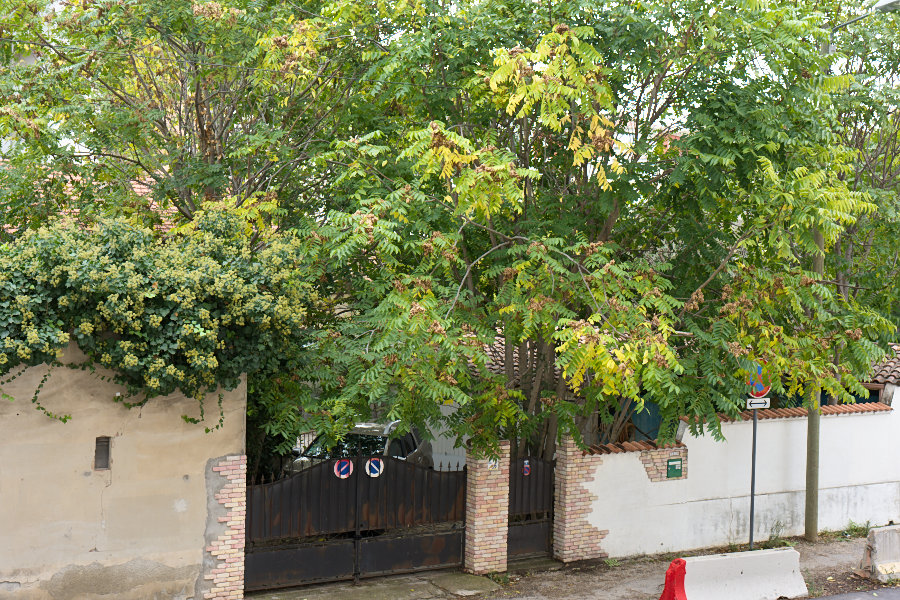
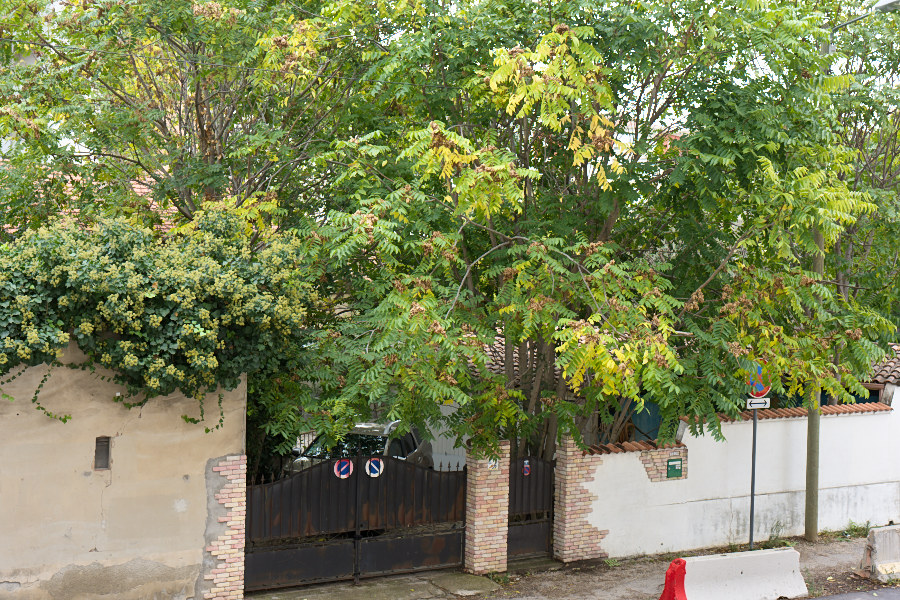
Write every file by staging and renaming; publish benchmark results
- Outputs, recipes and extracted JPEGs are written to a new file and
  renamed into place, so no existing file is ever opened for writing.
- Compare not-yet-existing destinations through their resolved directory.
- Benchmark: time full-resolution export including encoding; make the
  script executable.
- Fill in README and docs/benchmark.md with measured results.

diff --git a/src/output.rs b/src/output.rs
@@ -45,6 +45,29 @@ fn to_rgb16_be(image: &Image) -> Vec<u8> {
     out
 }
 
+/// Puts `bytes` at `path` by writing a new file beside it and renaming it
+/// into place. Nothing that already exists is ever opened for writing: an
+/// interrupted write leaves the old file intact, and a destination that is a
+/// symlink or hard link to some other file (the RAW, say) is replaced as a
+/// name while that other file's contents stay untouched.
+pub fn replace(path: &Path, bytes: &[u8]) -> std::io::Result<()> {
+    use std::io::Write;
+    let mut name = path.as_os_str().to_owned();
+    name.push(format!(".{}.tmp", std::process::id()));
+    let staging = std::path::PathBuf::from(name);
+    // `create_new` refuses an existing name without following it.
+    let written = std::fs::OpenOptions::new()
+        .write(true)
+        .create_new(true)
+        .open(&staging)
+        .and_then(|mut file| file.write_all(bytes))
+        .and_then(|()| std::fs::rename(&staging, path));
+    if written.is_err() {
+        let _ = std::fs::remove_file(&staging);
+    }
+    written
+}
+
 /// Writes `image` (sRGB-encoded, 0..1) to `path`. The extension selects the
 /// format: `.jpg`/`.jpeg` (8-bit, `quality` 1..100) or `.png` (16-bit, lossless).
 pub fn write(path: &Path, image: &Image, quality: u8) -> Result<()> {
@@ -57,18 +80,20 @@ pub fn write(path: &Path, image: &Image, quality: u8) -> Result<()> {
             if w > u16::MAX as usize || h > u16::MAX as usize {
                 return Err(Error::Params("image is too large for JPEG; use --size or PNG".into()));
             }
-            let mut encoder = jpeg_encoder::Encoder::new_file(path, quality.clamp(1, 100)).map_err(|e| failed(&e))?;
+            let mut bytes = Vec::new();
+            let mut encoder = jpeg_encoder::Encoder::new(&mut bytes, quality.clamp(1, 100));
             // Always full chroma resolution. Subsampled (4:2:0) files from this
             // encoder decode correctly in libjpeg and ImageIO, but an image
             // viewer used by AI assistants showed them scrambled, and a preview
             // the assistant cannot see correctly defeats the purpose.
             encoder.set_sampling_factor(jpeg_encoder::SamplingFactor::F_1_1);
             encoder.set_optimized_huffman_tables(true);
-            encoder.encode(&to_rgb8(image), w as u16, h as u16, jpeg_encoder::ColorType::Rgb).map_err(|e| failed(&e))
+            encoder
+                .encode(&to_rgb8(image), w as u16, h as u16, jpeg_encoder::ColorType::Rgb)
+                .map_err(|e| failed(&e))?;
+            replace(path, &bytes).map_err(|e| failed(&e))
         }
         "png" => {
-            // Encoded in memory and written in one call, so a failed write
-            // (a full disk) is reported instead of lost in a buffer's drop.
             let mut bytes = Vec::new();
             let mut encoder = png::Encoder::new(&mut bytes, w as u32, h as u32);
             encoder.set_color(png::ColorType::Rgb);
@@ -78,7 +103,7 @@ pub fn write(path: &Path, image: &Image, quality: u8) -> Result<()> {
             let mut writer = encoder.write_header().map_err(|e| failed(&e))?;
             writer.write_image_data(&to_rgb16_be(image)).map_err(|e| failed(&e))?;
             writer.finish().map_err(|e| failed(&e))?;
-            std::fs::write(path, bytes).map_err(|e| failed(&e))
+            replace(path, &bytes).map_err(|e| failed(&e))
         }
         _ => Err(Error::Params(format!("unsupported output format '.{extension}'; use .jpg or .png"))),
     }

diff --git a/src/main.rs b/src/main.rs
@@ -1,4 +1,3 @@
-use std::io::Write;
 use std::path::{Path, PathBuf};
 use std::process::ExitCode;
 use std::time::Instant;
@@ -126,22 +125,7 @@ fn save_recipe(path: &Path, params: &Params) -> Result<()> {
     let mut value = params.to_sparse();
     value["rawsmith"] = json!(env!("CARGO_PKG_VERSION"));
     let text = serde_json::to_string_pretty(&value).expect("recipes always serialise");
-    // Write-then-rename so an interrupted save never leaves half a recipe.
-    // The staging file must be new: `create_new` refuses an existing name
-    // without following it, so a link planted there cannot redirect the write.
-    let mut name = path.as_os_str().to_owned();
-    name.push(format!(".{}.tmp", std::process::id()));
-    let temporary = PathBuf::from(name);
-    let written = std::fs::OpenOptions::new()
-        .write(true)
-        .create_new(true)
-        .open(&temporary)
-        .and_then(|mut file| file.write_all(text.as_bytes()).and_then(|()| file.write_all(b"\n")))
-        .and_then(|()| std::fs::rename(&temporary, path));
-    if written.is_err() {
-        let _ = std::fs::remove_file(&temporary);
-    }
-    Ok(written?)
+    Ok(output::replace(path, (text + "\n").as_bytes())?)
 }
 
 fn read_raw(path: &Path) -> Result<arw::RawImage> {
@@ -164,6 +148,8 @@ fn parse_region(text: &str) -> Result<[f32; 4]> {
 
 /// Refuses to write `destination` when it is the RAW file itself, by any
 /// name: the same path, a symlink to it, or a hard link sharing its data.
+/// Where hard links cannot be recognised, `output::replace` still keeps the
+/// RAW's contents intact: it replaces names, it never writes into files.
 fn protect_raw(raw: &Path, destination: &Path, what: &str) -> Result<()> {
     if same_file(raw, destination) {
         return Err(Error::Params(format!(
@@ -177,7 +163,13 @@ fn protect_raw(raw: &Path, destination: &Path, what: &str) -> Result<()> {
 /// Whether two paths name one file: the same path (even if nothing exists
 /// there yet), a symlink to it, or a hard link sharing its data.
 fn same_file(a: &Path, b: &Path) -> bool {
-    let resolved = |p: &Path| std::fs::canonicalize(p).or_else(|_| std::path::absolute(p)).ok();
+    // A file that does not exist yet is named by its directory, resolved.
+    let resolved = |p: &Path| {
+        std::fs::canonicalize(p).ok().or_else(|| {
+            let full = std::path::absolute(p).ok()?;
+            Some(std::fs::canonicalize(full.parent()?).ok()?.join(full.file_name()?))
+        })
+    };
     if resolved(a).is_some_and(|x| Some(x) == resolved(b)) {
         return true;
     }
@@ -294,7 +286,7 @@ fn run(cli: Cli) -> Result<Value> {
             let raw = arw::decode(&file)?;
             let (offset, len) =
                 raw.embedded_jpeg.ok_or_else(|| Error::Unsupported("this file has no embedded JPEG".into()))?;
-            std::fs::write(&output, &file[offset..offset + len])?;
+            output::replace(&output, &file[offset..offset + len])?;
             Ok(json!({"output": output, "bytes": len}))
         }
     }

diff --git a/tests/cli.rs b/tests/cli.rs
@@ -230,6 +230,7 @@ fn mistakes_produce_json_errors_and_change_nothing() {
     assert_eq!(std::fs::read(&f.raw).unwrap(), before, "the RAW was modified");
 
     // A recipe and a picture cannot share a name, in either direction.
+    std::fs::create_dir_all(f.path("sub")).unwrap();
     let shared = f.path("shared.jpg");
     for args in [
         vec!["edit", s(&f.raw), "--reset", "--recipe", s(&shared), "-o", s(&shared)],
@@ -239,6 +240,10 @@ fn mistakes_produce_json_errors_and_change_nothing() {
         let (success, v) = run(&args);
         assert!(!success && v["error"]["kind"] == "params", "{args:?} -> {v}");
     }
+    assert!(!shared.exists());
+    let (success, v) =
+        run(&["edit", s(&f.raw), "--reset", "--recipe", s(&f.dir.join("sub/../shared.jpg")), "-o", s(&shared)]);
+    assert!(!success && v["error"]["kind"] == "params", "{v}");
     assert!(!shared.exists());
 
     // Saving a recipe leaves no staging file behind.

diff --git a/bench/photos.py b/bench/photos.py
@@ -166,9 +166,11 @@ def cmd_render(args):
             entry["seconds"]["system"] = round(time.time() - started, 3)
             entry["variants"]["camera"] = entry["variants"]["system"] = None
             os.remove(embedded)
-        # Full-resolution render time, the number users feel on export.
+        # Full-resolution export time, the number users feel: render, encode, write.
         save(scratch, {})
-        _, entry["seconds"]["full_resolution"] = rawsmith(exe, "render", raw, "--recipe", scratch)
+        export = os.path.join(work, "export.jpg")
+        _, entry["seconds"]["full_resolution"] = rawsmith(exe, "render", raw, "--recipe", scratch, "-o", export)
+        os.remove(export)
         entry["seconds"]["full_resolution"] = round(entry["seconds"]["full_resolution"], 3)
         manifest["photos"][photo] = entry
         print(f"{photo}: {', '.join(sorted(entry['variants']))}", flush=True)

diff --git a/docs/benchmark.md b/docs/benchmark.md
@@ -9,7 +9,7 @@ none of them substitutes for the others.
 | `examples/quality.rs` | Are the algorithms correct and better than naive baselines, against known answers? | No (synthetic) |
 | `bench/photos.py` | Do real photos come out better than the camera's own rendering and the system RAW converter, and does AI editing help? | Your own RAW files |
 
-Numbers below are from version RAWSMITH_VERSION on an Intel i7-10700
+Numbers below are from version 0.1.0 on an Intel i7-10700
 (8 cores / 16 threads), macOS, release build.
 
 ## 1. Decoder cross-check
@@ -28,7 +28,19 @@ level and as-shot white balance.
 Synthetic scenes with a known correct answer. Reproducible by anyone;
 `--check` turns the floors into a regression test that CI runs.
 
-QUALITY_TABLE
+| Measure | rawsmith | Baseline | Floor checked in CI |
+|---|---|---|---|
+| Demosaic PSNR, mean of four scenes | 39.4 dB | bilinear 33.2 dB, Malvar–He–Cutler 37.1 dB | +4 dB over bilinear, +1 dB over MHC |
+| Demosaic false colour, zone plate (lower is better) | 0.025 | bilinear 0.084, MHC 0.030 | — |
+| Highlight reconstruction, mean relative error | 1.1% | 10.3% when clipping | below 3% |
+| Colour accuracy, 24 patches (ΔE, Oklab × 100) | mean 0.014, max 0.036 | — | mean below 0.5, max below 1 |
+| Chroma noise removed / edge contrast kept | 74% / 108% | — | at least 25% / 95% |
+| Sharpening overshoot, share of the edge step | 1.7% | — | below 2% |
+| Tone curve monotone | yes | — | yes |
+
+Per scene, demosaic PSNR in dB (bilinear / MHC / rawsmith): zone plate
+19.6 / 25.7 / 28.6, coloured lines 26.8 / 26.1 / 27.6, soft shapes
+41.8 / 45.1 / 48.2, fractal texture 44.8 / 51.6 / 53.1.
 
 - **Demosaic**: PSNR of the reconstructed image against the original, over
   four scenes (zone plate up to 0.8 of the sensor's resolution limit, thin
@@ -88,7 +100,39 @@ What the comparisons mean:
 
 ### Results
 
-PHOTO_TABLE
+15 photos (the private set described under Limits), judge: Claude through
+`claude -p`, one judge, 258 judgements, every pair in both orders.
+
+| Comparison | Photos | Wins | Losses | Ties | Win rate of decided | 95% interval |
+|---|---|---|---|---|---|---|
+| `neutral` vs `camera` | 15 | 10 | 0 | 5 | 100% | 72–100% |
+| `auto` vs `camera` | 15 | 15 | 0 | 0 | 100% | 80–100% |
+| `auto` vs `system` | 15 | 15 | 0 | 0 | 100% | 80–100% |
+| `auto` vs `neutral` | 15 | 13 | 0 | 2 | 100% | 77–100% |
+| `ai` vs `auto` | 15 | 12 | 1 | 2 | 92% | 67–99% |
+| `ai` vs `camera` | 15 | 15 | 0 | 0 | 100% | 80–100% |
+| `ai` vs `system` | 15 | 15 | 0 | 0 | 100% | 80–100% |
+
+A win is a photo whose two verdicts net out in the candidate's favour.
+The interval is a Wilson interval on wins among decided photos.
+
+Judge checks for this run:
+
+| Check | Result |
+|---|---|
+| Spoiled controls rejected | 40 of 40 |
+| Identical pairs called a tie | 8 of 8 |
+| Same verdict after swapping A and B | 92% of pairs |
+| Position preference | A 122, B 118, tie 18 |
+
+Speed on the same machine, mean of the 15 files (33 MP each): a 1400 px
+preview takes 0.39 s; a full-resolution JPEG export takes 4.3 s,
+including encoding and writing. `rawsmith auto` with a preview takes 1.05 s
+and macOS `sips` 1.30 s for a picture of the same size.
+
+The `ai` recipes came from five independent assistant sessions (three
+photos each) that were given only the skill file and the CLI, started
+from `auto`, and used two to five rounds per photo.
 
 ### Limits
 

diff --git a/README.md b/README.md
@@ -24,7 +24,11 @@ change parameters, look at the result, and repeat until it is right.
   against the camera's own JPEG and the system RAW converter. See
   [Results](#results).
 
-README_DEMO
+| Camera JPEG | `rawsmith auto` |
+|---|---|
+| ![The camera's own rendering](docs/images/demo-camera.jpg) | ![rawsmith auto rendering](docs/images/demo-rawsmith.jpg) |
+
+*A CC0 sample from [raw.pixls.us](https://raw.pixls.us) (Sony A7 IV), developed with one command.*
 
 ## Install
 
@@ -90,7 +94,37 @@ Then ask: *"Edit ~/Pictures/DSC0001.ARW — the foreground is too dark."*
 
 ## Results
 
-RESULTS_SUMMARY
+**Decoding.** Sensor samples are identical to LibRaw's on all 18 test
+files (15 uncompressed, 2 more uncompressed and 1 lossy-compressed from
+raw.pixls.us).
+
+**Algorithms, against ground truth** (`cargo run --release --example quality`):
+
+| Measure | rawsmith | Baseline |
+|---|---|---|
+| Demosaic PSNR, mean of four scenes | 39.4 dB | bilinear 33.2 dB, Malvar–He–Cutler 37.1 dB |
+| Highlight reconstruction error | 1.1% | 10.3% when clipping |
+| Chroma noise removed, edge contrast kept | 74%, 108% | — |
+| Sharpening overshoot | 1.7% of the edge step | — |
+
+**Real photos, judged blind.** 15 photos, each pair shown to an LLM judge
+in both orders without labels; wins – losses – ties per photo:
+
+| Comparison | Result | What it shows |
+|---|---|---|
+| `auto` vs the camera's JPEG | 15 – 0 – 0 | the engine and its automatic adjustment |
+| `auto` vs macOS's RAW converter | 15 – 0 – 0 | |
+| default recipe vs the camera's JPEG | 10 – 0 – 5 | the engine alone |
+| AI-edited vs `auto` | 12 – 1 – 2 | what an assistant's edit loop adds |
+
+The judge rejected 40 of 40 deliberately spoiled controls, called 8 of 8
+identical pairs a tie and kept its verdict in 92% of pairs when the order
+was swapped. This is a small development set from one camera, judged by
+one model: read it as evidence that the approach works, not as a ranking
+of raw developers.
+
+**Speed** (33 MP files, 8-core desktop): 0.4 s for a 1400 px preview,
+4.3 s for a full-resolution JPEG.
 
 Method, full tables and how to run the benchmark on your own photos:
 [docs/benchmark.md](docs/benchmark.md).
